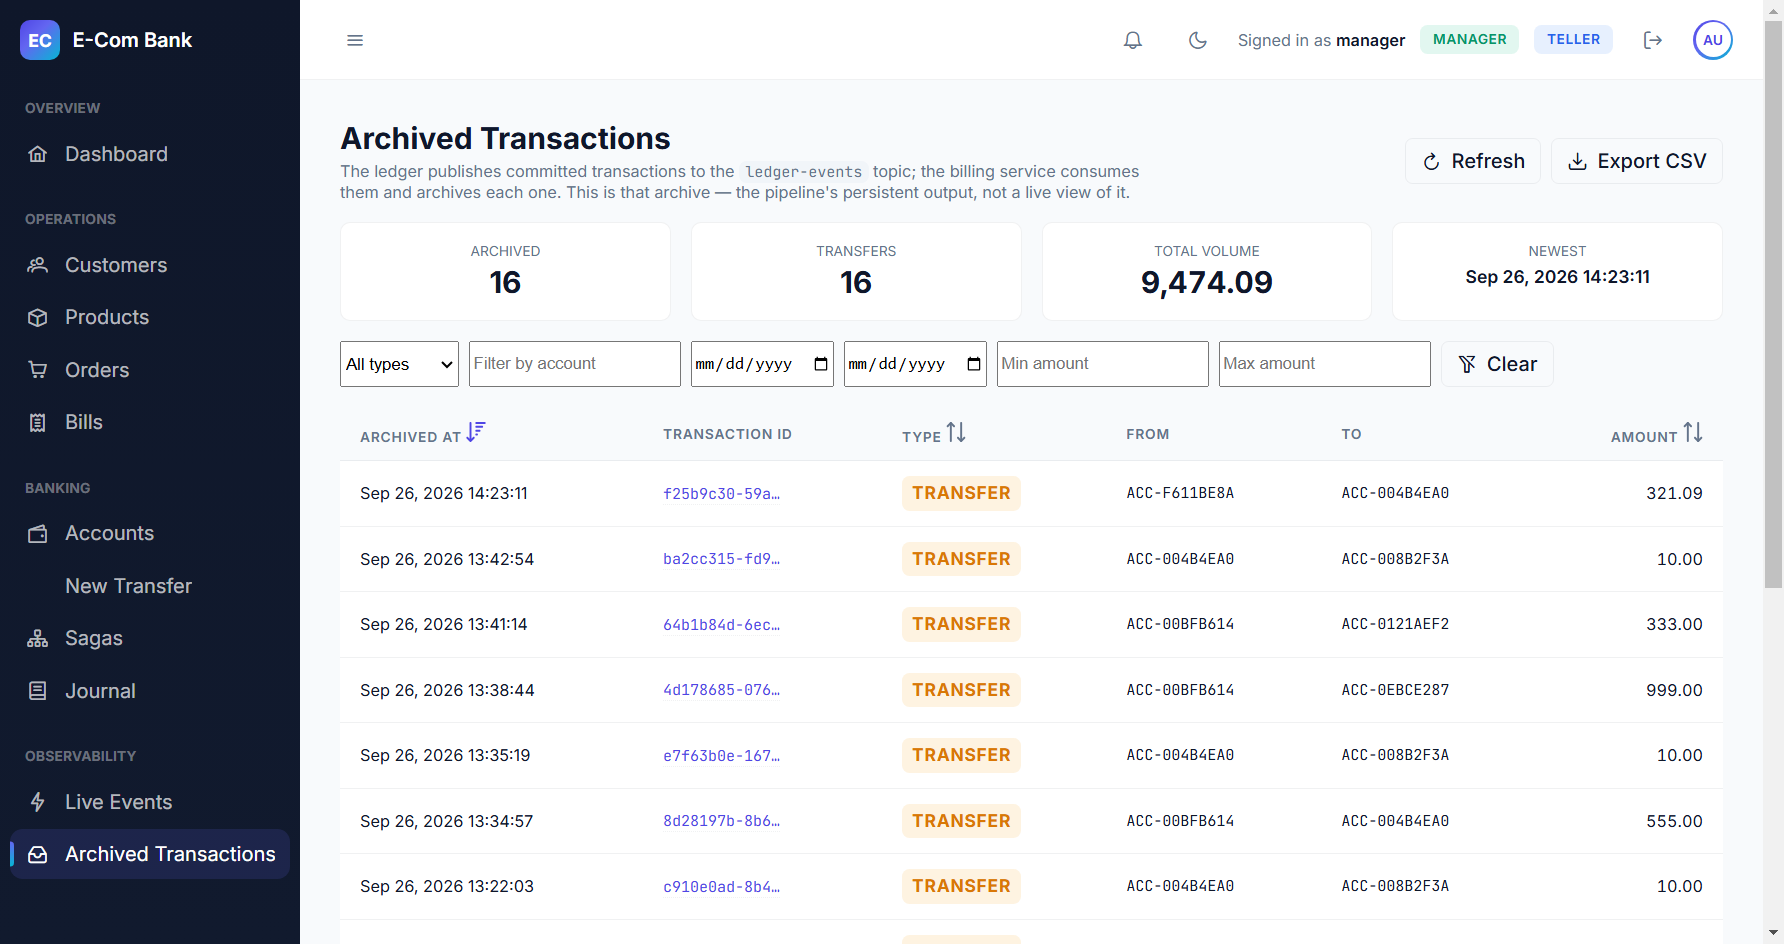
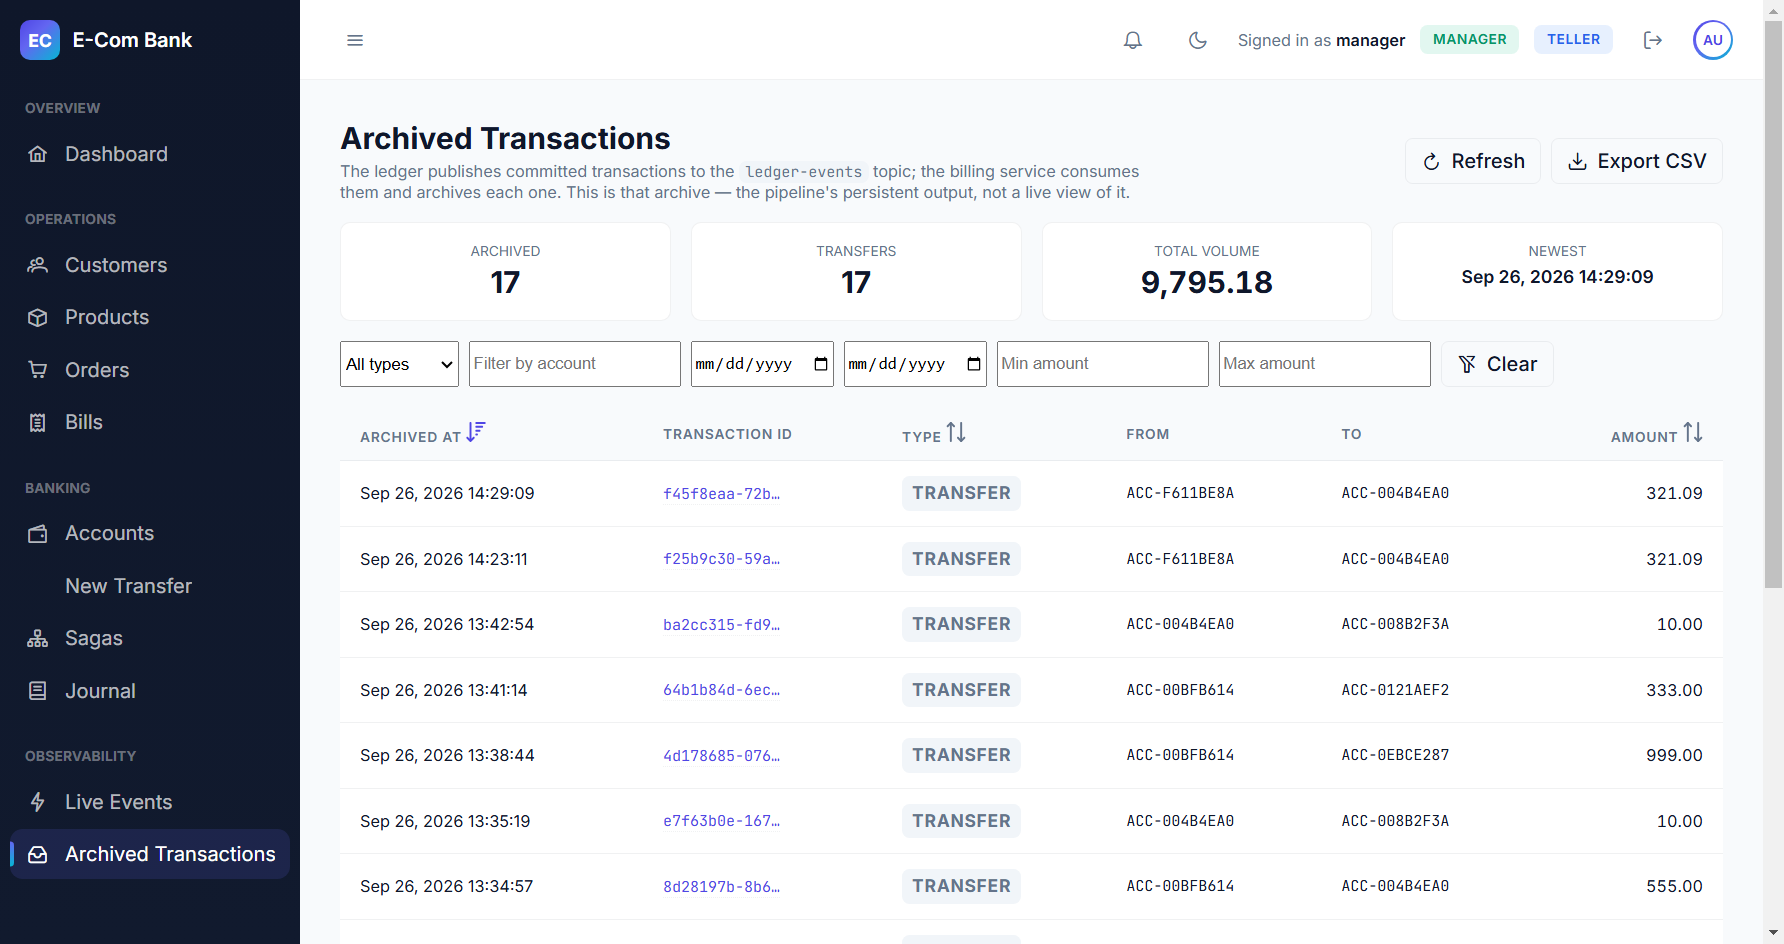
style(observability): tone the TRANSFER badge down to secondary

diff --git a/ecom-frontend/src/app/components/observability/archived-transactions/archived-transactions.component.ts b/ecom-frontend/src/app/components/observability/archived-transactions/archived-transactions.component.ts
@@ -163,11 +163,19 @@ export class ArchivedTransactionsComponent implements OnInit {
     return id.length > 12 ? id.substring(0, 12) + '…' : id;
   }
 
+  /**
+   * Badge severity per transaction type.
+   *
+   * TRANSFER is the baseline operation type; blue/red are reserved for future
+   * CREDIT/DEBIT rows so anomalies stand out. Every row in the archive today is
+   * a TRANSFER, and an amber badge on all of them made the column read as alarm
+   * rather than as information — colour should mark the exception, not the norm.
+   */
   typeSeverity(type?: string): 'info' | 'danger' | 'warn' | 'secondary' {
     switch (type) {
       case 'CREDIT': return 'info';
       case 'DEBIT': return 'danger';
-      case 'TRANSFER': return 'warn';
+      case 'TRANSFER': return 'secondary';
       default: return 'secondary';
     }
   }
